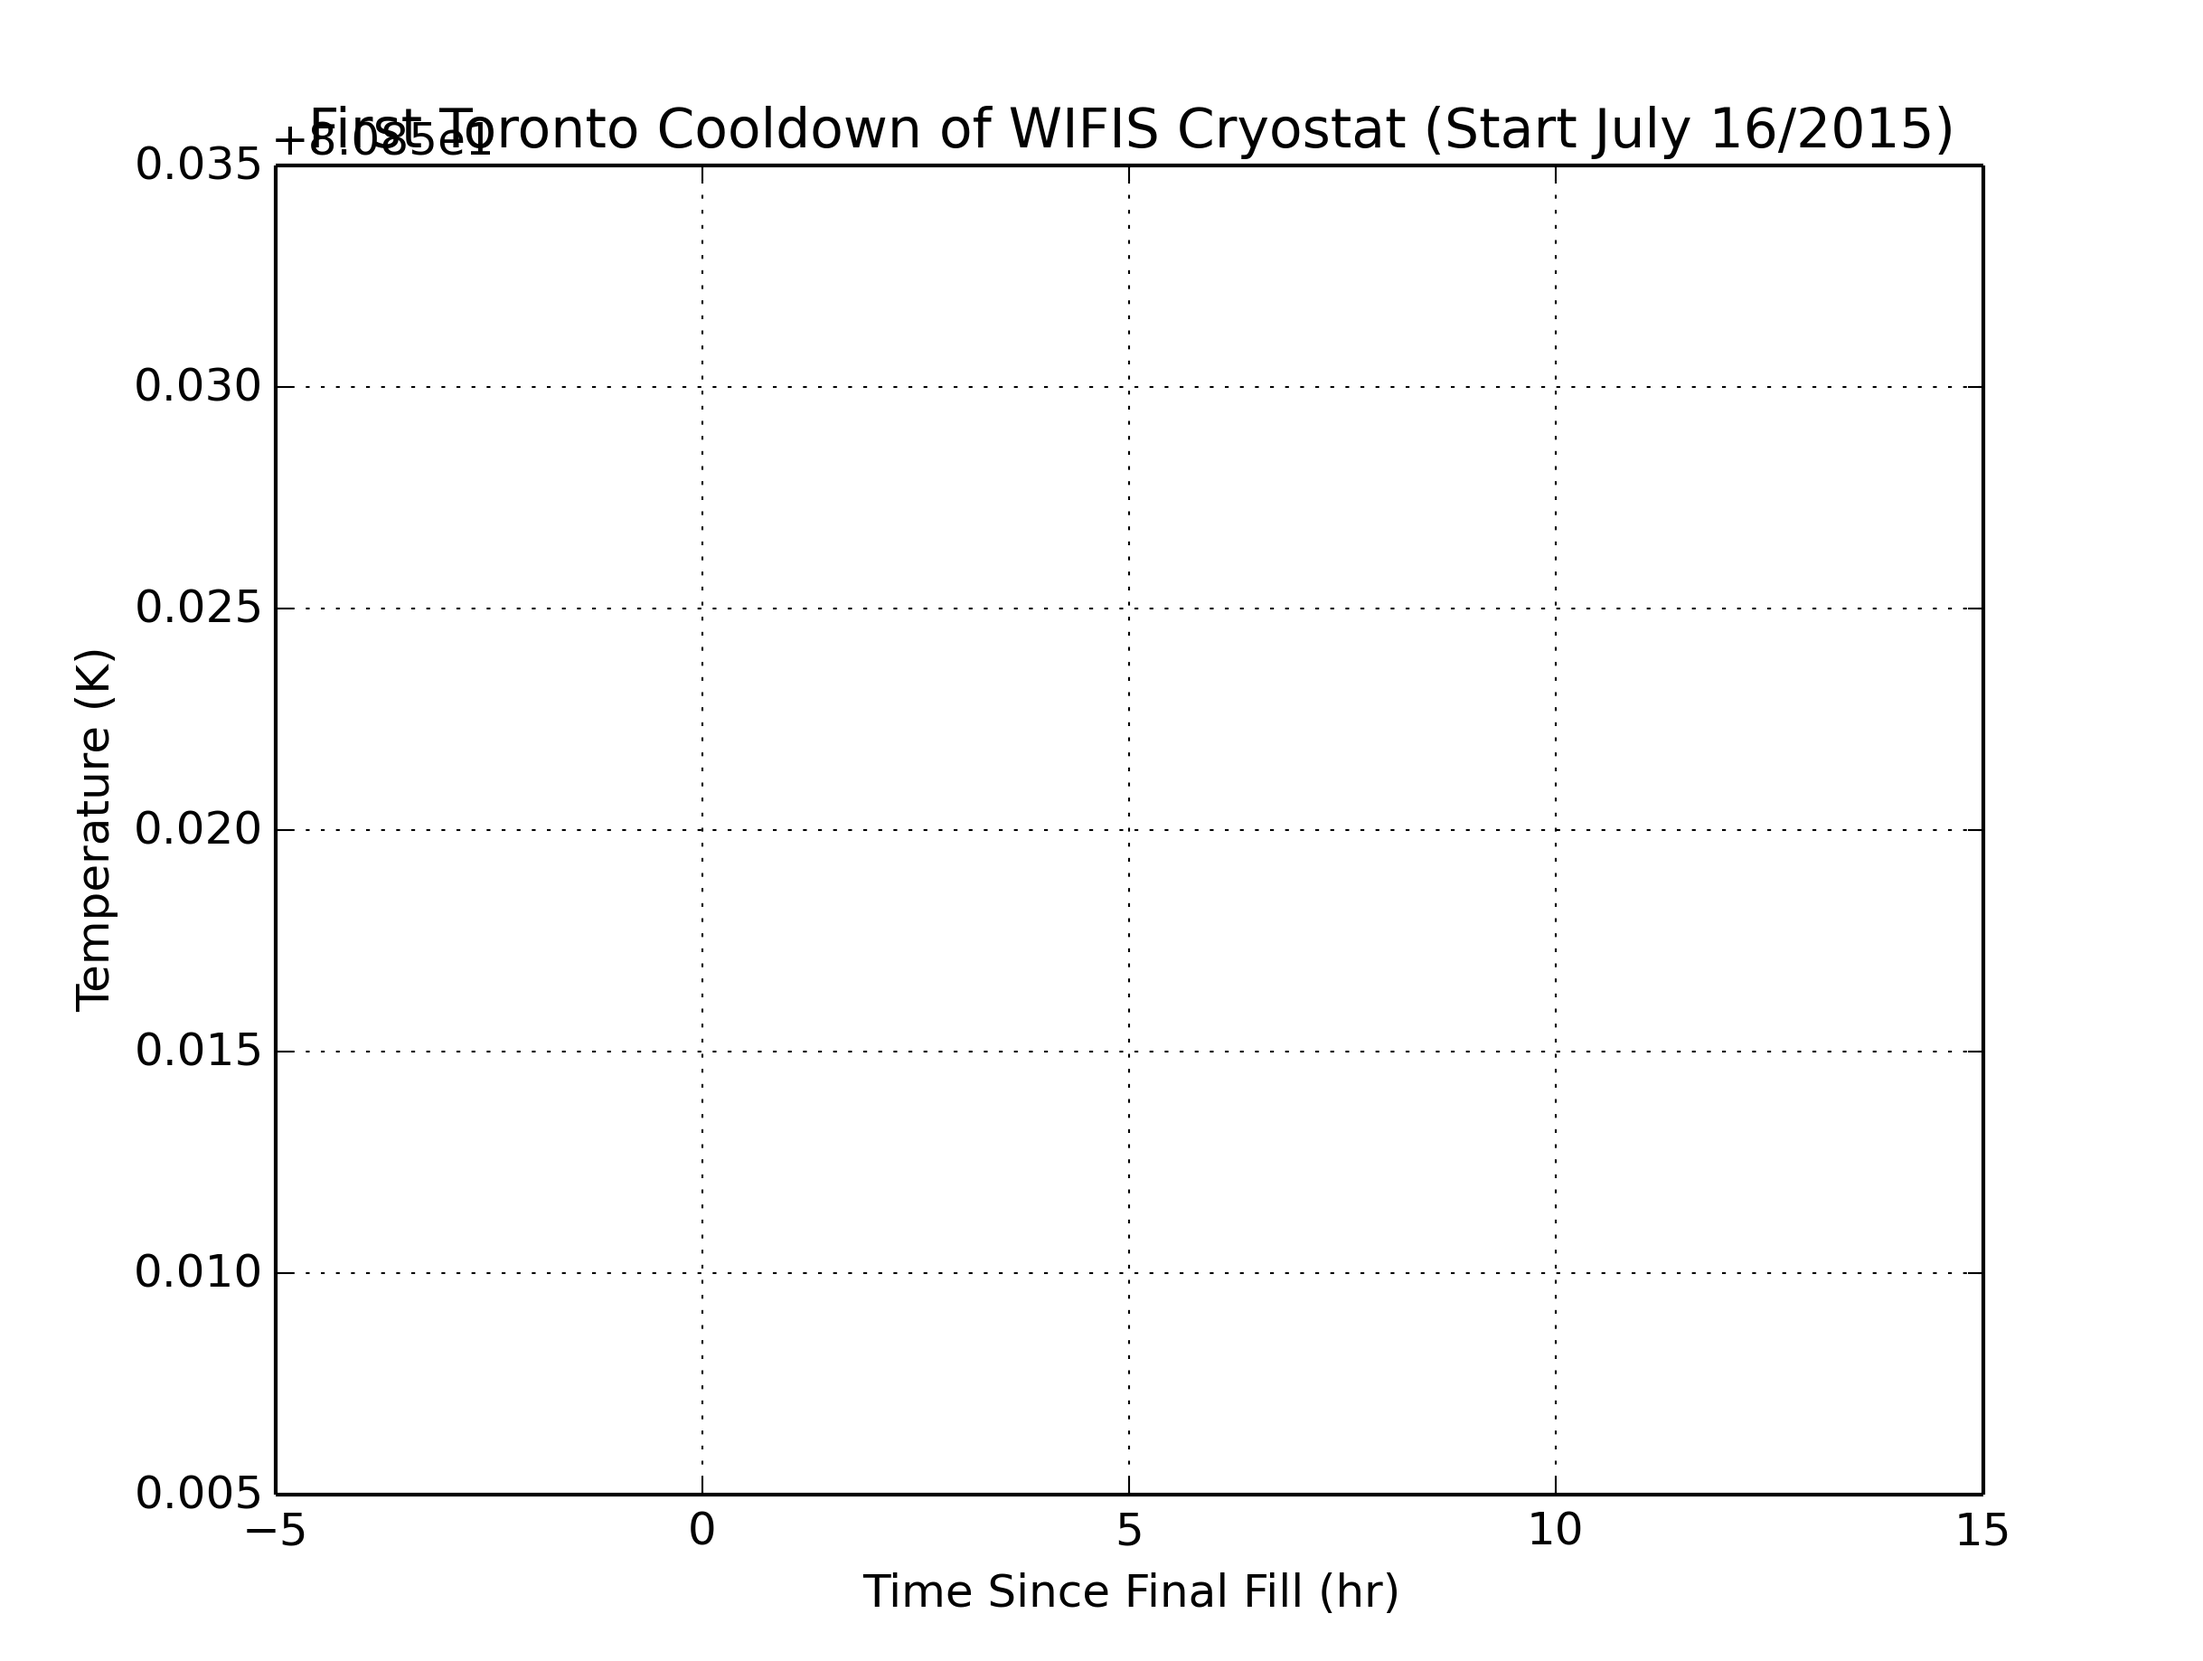
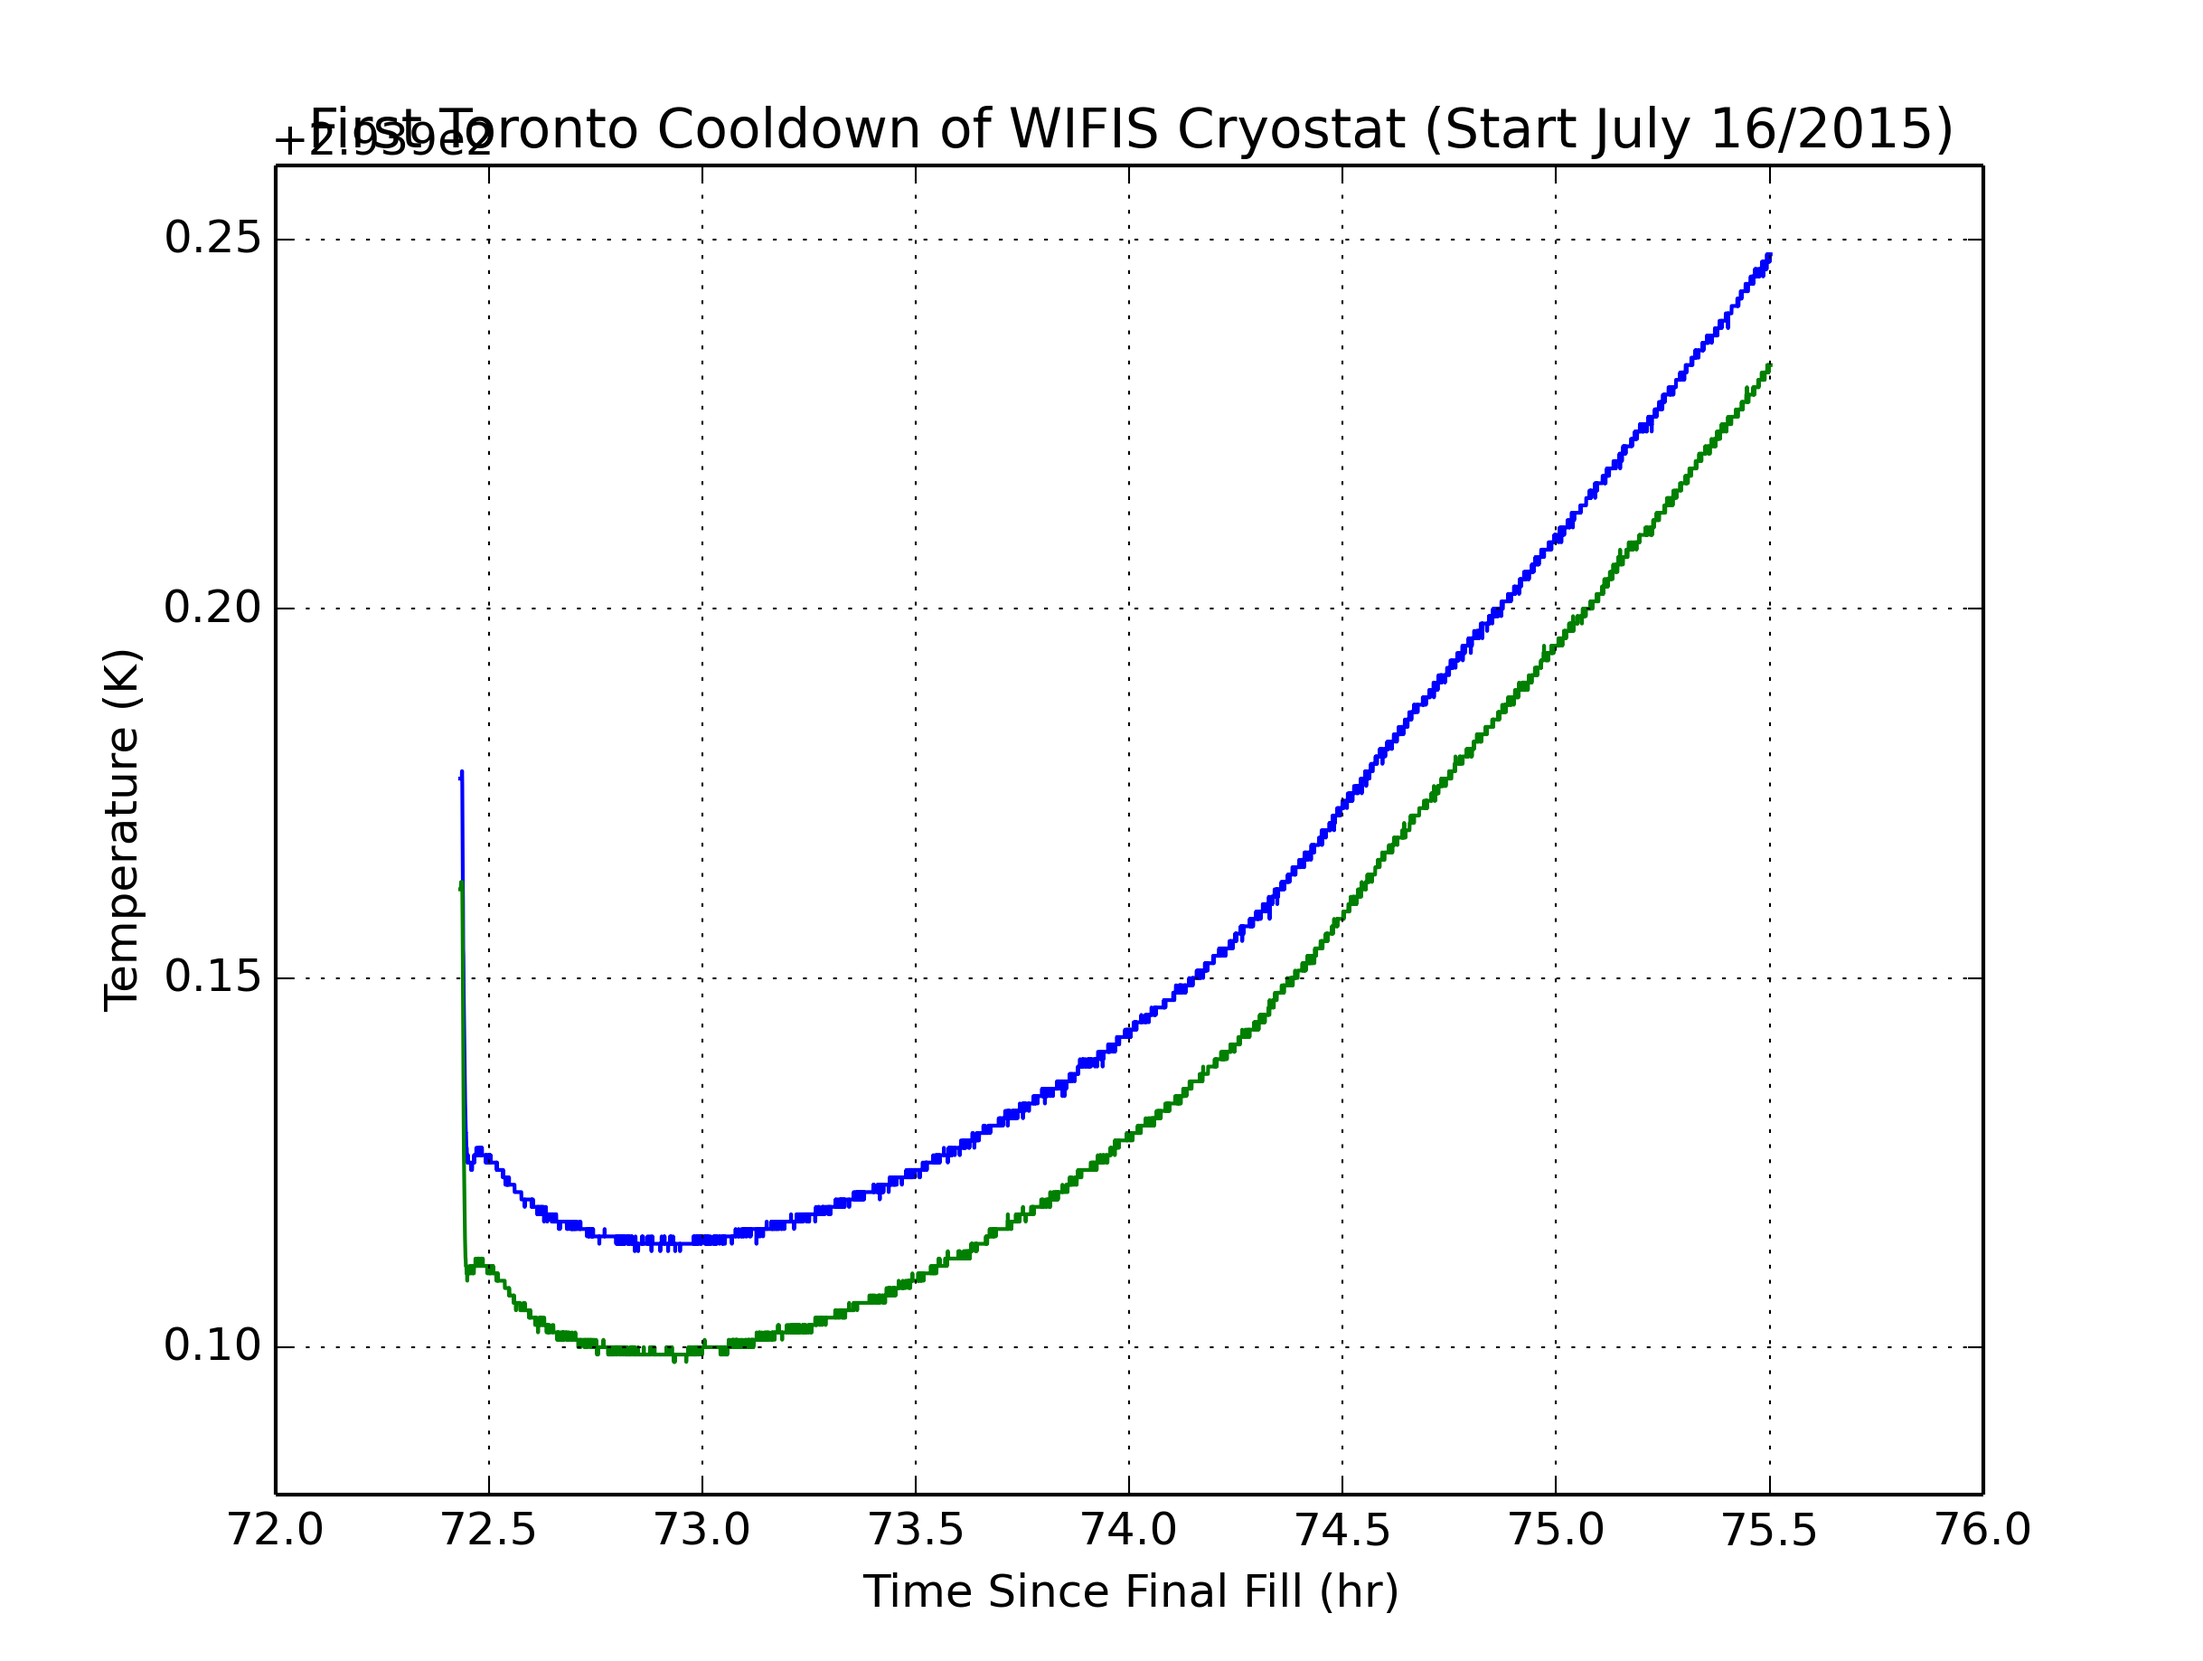
Updated many control scripts

diff --git a/motioncontrol/Calibration_Control/calibration_control_toplevel.py b/motioncontrol/Calibration_Control/calibration_control_toplevel.py
@@ -1,11 +1,8 @@
-#gui that controls all of the calibration unit componants
+########
+# Methods for controlling the Calibration Unit flipper arms as well as controlling 
+# the power for all Calibration Unit components
 
-#I tried to make it so that there are a few simple buttons that will do all the
-#stpes needed to take calibration images and that the user can contorl the impo
-#rtant componanats seperatly if desired. Also no matter how gui is exited 
-#should make sure everything gets turned off
-
-#NOTE: the statuses of the componants displayed by this app won't be updated if
+#NOTE: the statuses of the components displayed by this app won't be updated if
 #their power is disrupted through other sources, keep this in mine (could add 
 #this function by adding an update_status() function like in power_control.py 
 #but this would probably cause the whole code to lag annoyingly. 
@@ -50,15 +47,14 @@ import signal
 
 
 ###################################################
+class TimeoutError(Exception):
+    pass
+
+def handler(signum, frame):
+    raise TimeoutError()
+
 def timeout(func, args=(), kwargs={}, timeout_duration=1, default=None):
-    #import signal
-
-    class TimeoutError(Exception):
-        pass
-
-    def handler(signum, frame):
-        raise TimeoutError()
-
+    
     # set the timeout handler
     signal.signal(signal.SIGALRM, handler) 
     signal.alarm(timeout_duration)
@@ -73,7 +69,8 @@ def timeout(func, args=(), kwargs={}, timeout_duration=1, default=None):
 
 # Assign your port and speed for sphere arduino
 def connect_sphere(fport, sport):
-    try: ser2 = serial.Serial(sport, 9600)
+    try: 
+        ser2 = serial.Serial(sport, 9600)
     except: 
         print 'Warning: unable to conect to arduino at'+sport
         try: ser2 = serial.Serial(fport, 9600)
@@ -89,9 +86,10 @@ def clear_out(ser):
     return a
     
 def setup_arduinos(fport,sport):
+
     ser2 = connect_sphere(fport,sport)
     print("Reset Sphere Arduino")
-    sleep(3) #not sure why does this
+    sleep(3)
     ser2.write(bytes('L'))
     answ=timeout(ser2.readline)
 
@@ -110,11 +108,14 @@ def setup_arduinos(fport,sport):
         
 
     # assign your port and speed for flipper arduino
-    try: ser = serial.Serial(fport, 9600)
-    except: print 'Warning: unable to conect to arduino at'+\
-        fport;sys.exit()
+    try: 
+        ser = serial.Serial(fport, 9600)
+    except: 
+        print 'Warning: unable to conect to arduino at'+fport
+        sys.exit()
+    
     print("Reset Flipper Arduino")
-    sleep(3) #not sure why does this
+    sleep(3) 
 
     #put each pin to low mode (won't move flippers if power is off which could 
     #cause some problems)

diff --git a/monitor/plotdata.py b/monitor/plotdata.py
@@ -30,11 +30,11 @@ def smooth(x,window_len=11,window='hanning'):
 plt.close('all')
 plt.ion()
 
-data = np.loadtxt('cooldown02172017.csv',delimiter=',',usecols=(1,2,3,7))
+data = np.loadtxt('cooldown03182017.csv',delimiter=',',usecols=(1,2,3,7))
 
 # 1437076800.928176 July 16/2015 4:00 pm refill
 
-time = (data[:,0]-1437076800.928176)/3600.
+time = (data[:,0]-1489599000.248219)/3600.
 temp1 = data[:,1]
 temp2 = data[:,2]
 pressure = data[:,3]
@@ -55,13 +55,13 @@ plt.plot(time,temp1)
 plt.title('First Toronto Cooldown of WIFIS Cryostat (Start July 16/2015)')
 plt.xlabel('Time Since Final Fill (hr)')
 plt.ylabel('Temperature (K)')
-plt.xlim([-5,15])
+#plt.xlim([-5,15])
 plt.grid(True)
 plt.savefig('full_temp_zoom.png',dpi=300)
 
 plt.figure(3)
 grad = np.diff(temp2)*60/np.diff(time)
-plt.plot(time,smooth(deriv(time,temp1),window_len=30)/60.)
+plt.plot(time,smooth(deriv(time,temp2),window_len=30)/60.,'.-')
 plt.xlabel('Time Since Final Fill (hr)')
 plt.ylabel('Cooling Rate (K/min)')
 plt.title('Thermal Switch Performance (Start July 16/2015)')

diff --git a/motioncontrol/motor_controller.py b/motioncontrol/motor_controller.py
@@ -307,7 +307,7 @@ def on_closing():
 
 def run_motor_gui_standalone():
 
-    client = ModbusClient(method="rtu", port="/dev/ttyUSB0", stopbits=1, \
+    client = ModbusClient(method="rtu", port="/dev/ttyUSB2", stopbits=1, \
         bytesize=8, parity='E', baudrate=9600, timeout=0.1)
     
     # connect to the serial modbus server
@@ -328,7 +328,7 @@ def run_motor_gui_standalone():
 
 def run_motor_gui(tkroot):
 
-    client = ModbusClient(method="rtu", port="/dev/ttyUSB1", stopbits=1, \
+    client = ModbusClient(method="rtu", port="/dev/ttyUSB2", stopbits=1, \
         bytesize=8, parity='E', baudrate=9600, timeout=0.1)
 
     # connect to the serial modbus server

diff --git a/monitor/Cooling_Script_WIFIS.py b/monitor/Cooling_Script_WIFIS.py
@@ -192,7 +192,7 @@ def cooling_setpoints(): #dynamically generate setpoints for cooling
 def open_serial_port():
     global ser
     global ser_pressure
-    ser.port = "/dev/ttyUSB2"
+    ser.port = "/dev/ttyUSB1"
     ser.baudrate = 57600 
     ser.bytesize = serial.SEVENBITS
     ser.stopbits=serial.STOPBITS_ONE
@@ -204,7 +204,7 @@ def open_serial_port():
     else:
         print 'Unable to open serial port - T_control'
         
-    ser_pressure.port = '/dev/ttyUSB3'
+    ser_pressure.port = '/dev/ttyUSB0'
     ser_pressure.baudrate = 9600
     ser_pressure.timeout=0
     ser_pressure.open()

diff --git a/motioncontrol/fli_controller.py b/motioncontrol/fli_controller.py
@@ -40,7 +40,8 @@ def load_FLIDevices():
     if flt != None:
         flt.set_filter_pos(0)
     if foc != None:
-        foc.home_focuser()
+        #foc.home_focuser()
+        pass
 
     # ??? any other default params ???
    
@@ -279,7 +280,8 @@ class FLIApplication(_tk.Frame):
             
             mpl.close()
             img_rot = np.rot90(img, k=3)
-            mpl.imshow(img_rot, cmap="Greys")
+            mpl.imshow(img_rot, cmap="gray")
+            #mpl.imshow(img)
             mpl.show()
 
 

diff --git a/motioncontrol/Power_Control/power_control.py b/motioncontrol/Power_Control/power_control.py
@@ -1,5 +1,3 @@
-
-
 #relies on dlipower.py, (from https://pypi.python.org/pypi/dlipower)  which is 
 #uploaded here as well gui to control web power switches
 #updates to show changes made from other places than this app but LAGS so no 
@@ -417,8 +415,9 @@ def run_power_gui_standalone():
     root.mainloop() #loop over gui until closed
 
 if __name__ == '__main__':
-    #run_power_gui()
+    run_power_gui_standalone()
     pass
+    
 
 
 

diff --git a/monitor/logdata.py b/monitor/logdata.py
@@ -76,7 +76,7 @@ ser_pressure = serial.Serial()
 open_serial_port(ser_temp,ser_pressure)
 
 # Output filesname
-fname = 'cooldown02182017.csv'
+fname = 'cooldown03182017-2.csv'
 # File header
 outFileHeader = ['#Time Stamp','seconds since epoch', 'Input A',  'Input B','Input C','Input D1', 'Input D2','Pressure']
 
